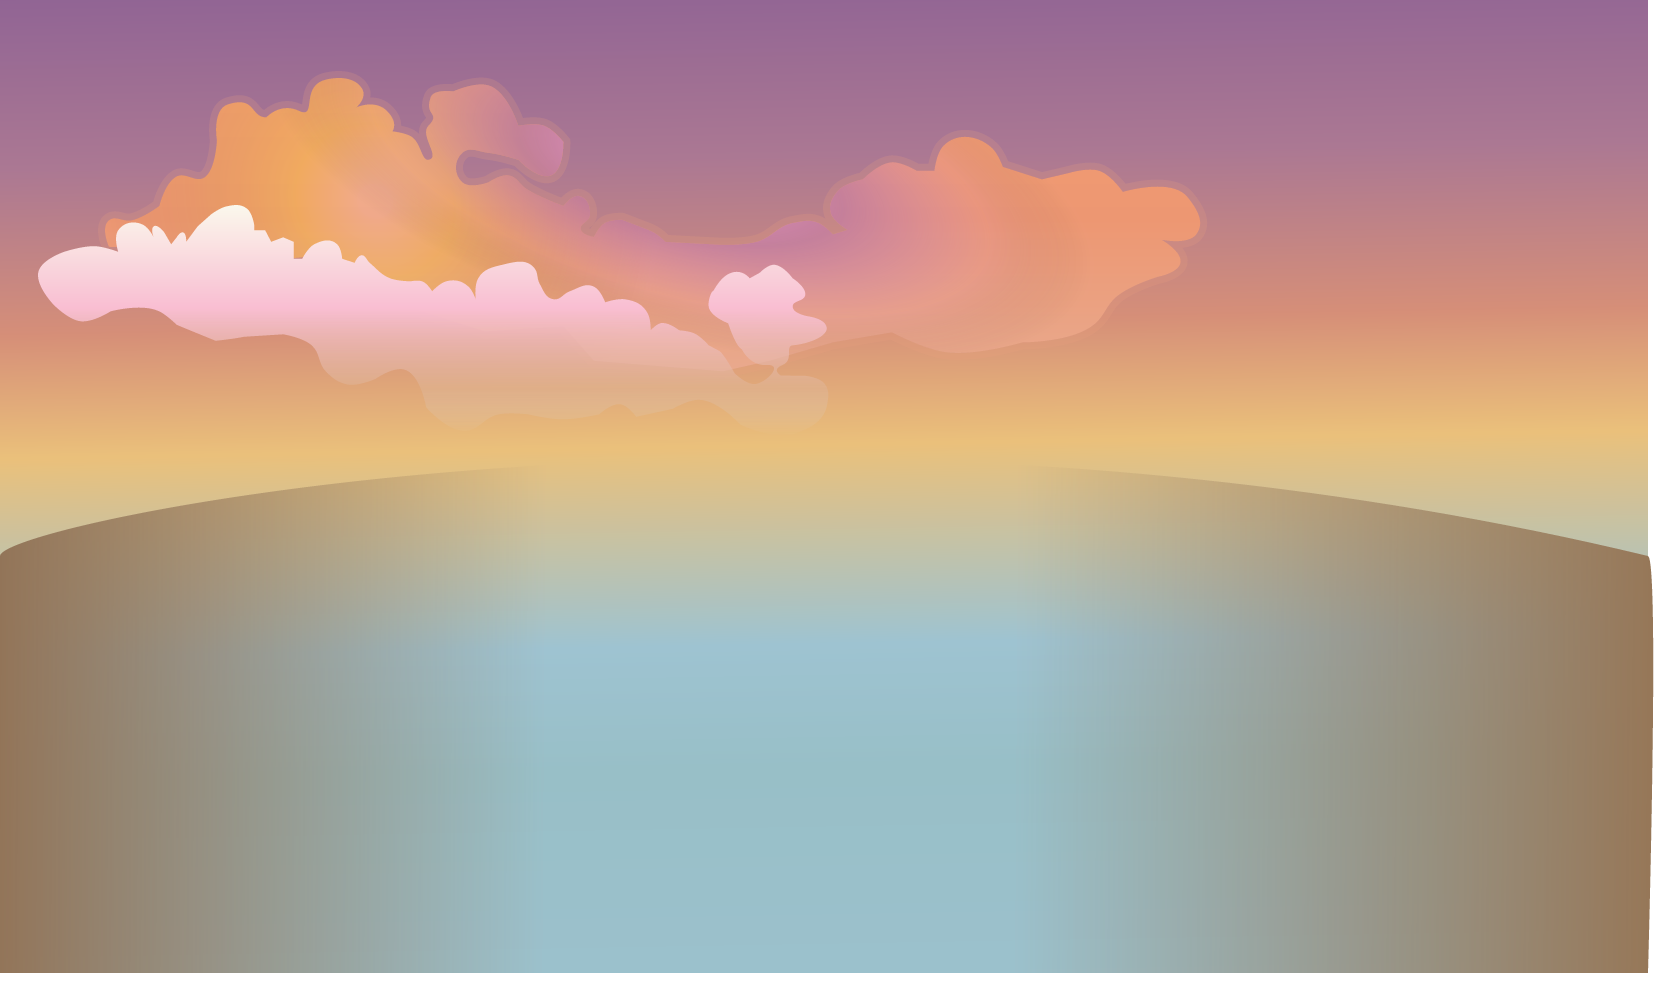
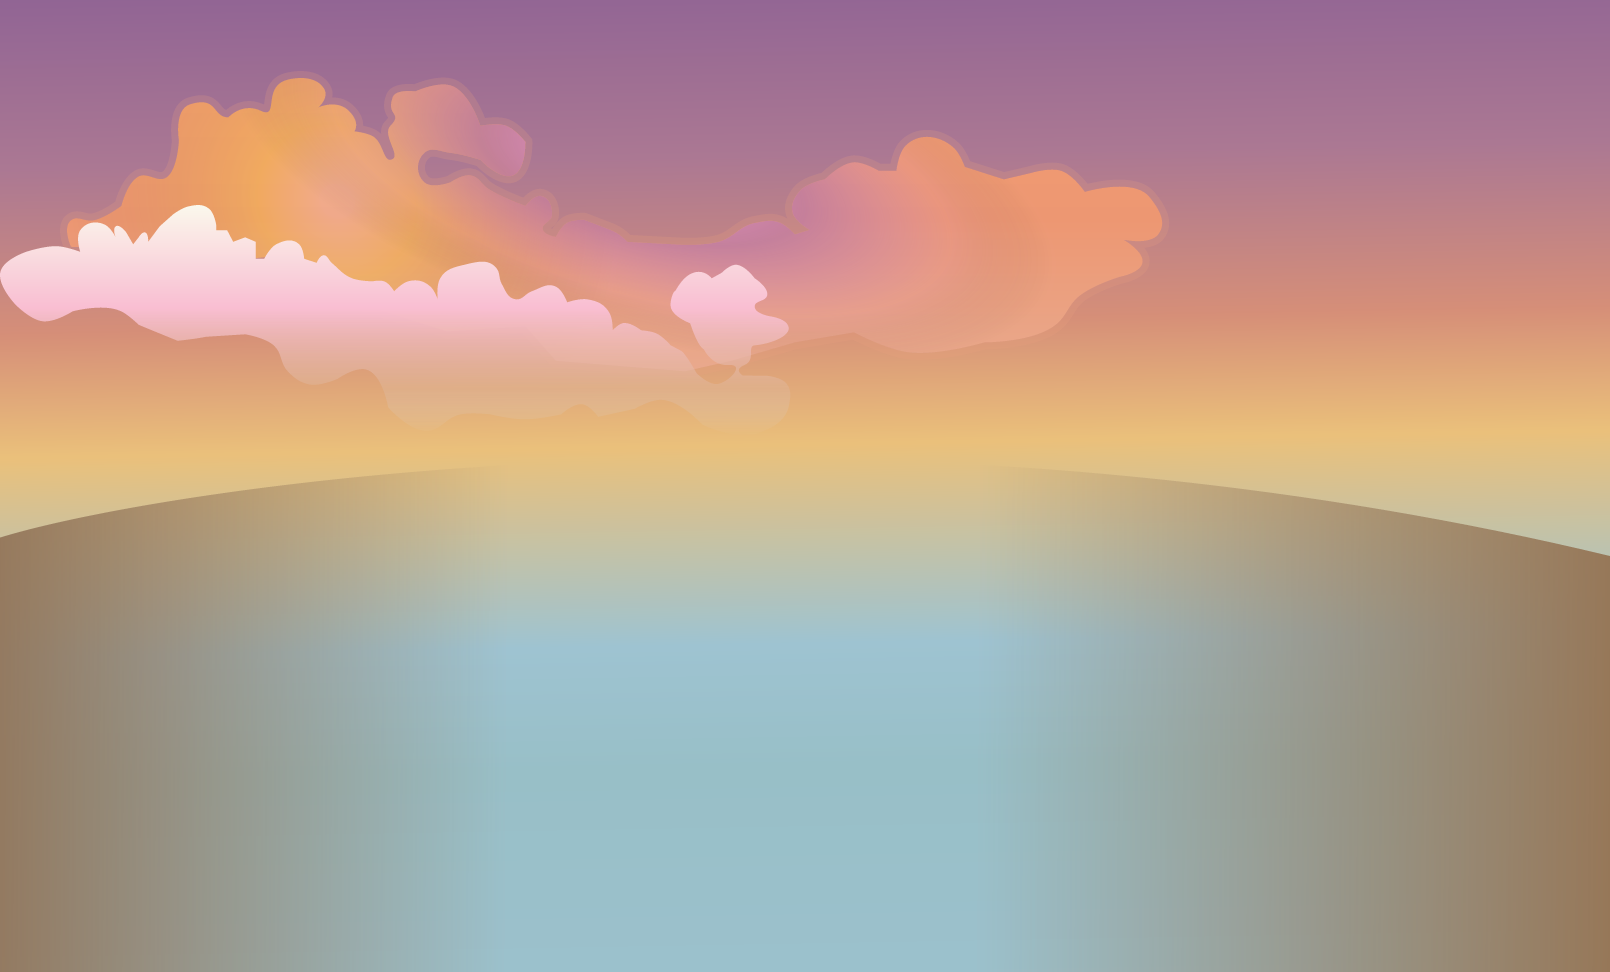
Hero: second mountain layer box, roof, and fill-fit backdrop panels
- Backdrop and side-wall panels use fitMode 'fill' so they meet at the corners
- Enable the layer-02 box (backdrop + left/right walls, 0.9 scale)
- Add a camera-following roof mirrored from the ground floor
- Crop transparent right/bottom edges from layer-01.png (fixes corner seam)

diff --git a/src/docs/hero/hero_parallax.ts b/src/docs/hero/hero_parallax.ts
@@ -334,6 +334,7 @@ export async function heroParallax(
     world.addPanel({
         id: 'mountain-backdrop-01',
         type: ELEMENT_TYPES.PANEL,
+        fitMode: 'fill',
         width: mountainBackdropWidth,
         height: mountainBackdropHeight,
         position: { x: 0, y: 0, z: mountainBackdropDistance },
@@ -342,17 +343,18 @@ export async function heroParallax(
             { type: 'follow', settings: { follow: 'CAMERA' } },
         ],
     });
-    // world.addPanel({
-    //     id: 'mountain-backdrop-02',
-    //     type: ELEMENT_TYPES.PANEL,
-    //     width: mountainBackdropWidth * 0.9,
-    //     height: mountainBackdropHeight * 0.9,
-    //     position: { x: 0, y: 0, z: mountainBackdropDistance * 0.9 },
-    //     texture: { path: appAssetPath('img/hero/layer-02.png'), width: mountainWidth, height: mountainHeight },
-    //     effects: [
-    //         { type: 'follow', settings: { follow: 'CAMERA' } },
-    //     ],
-    // });
+    world.addPanel({
+        id: 'mountain-backdrop-02',
+        type: ELEMENT_TYPES.PANEL,
+        fitMode: 'fill',
+        width: mountainBackdropWidth * 0.9,
+        height: mountainBackdropHeight * 0.9,
+        position: { x: 0, y: 0, z: mountainBackdropDistance * 0.9 },
+        texture: { path: appAssetPath('img/hero/layer-02.png'), width: mountainWidth , height: mountainHeight },
+        effects: [
+            { type: 'follow', settings: { follow: 'CAMERA' } },
+        ],
+    });
 
     // Side walls - same mountain artwork, folded 90 degrees off the backdrop's left/right
     // edges so they read as the side faces of a box around the observer. Each is mirrored
@@ -366,6 +368,7 @@ export async function heroParallax(
     world.addPanel({
         id: 'mountain-backdrop-01-left',
         type: ELEMENT_TYPES.PANEL,
+        fitMode: 'fill',
         width: mountainSideDepth,
         height: mountainBackdropHeight,
         position: { x: -mountainBackdropHalfWidth, y: 0, z: mountainSideZ },
@@ -377,29 +380,46 @@ export async function heroParallax(
         ],
     });
 
-    // world.addPanel({
-    //     id: 'mountain-backdrop-02-left',
-    //     type: ELEMENT_TYPES.PANEL,
-    //     width: mountainSideDepth * 0.9,
-    //     height: mountainBackdropHeight * 0.9,
-    //     position: { x: -mountainBackdropHalfWidth  * 0.9, y: 0, z: mountainSideZ  * 0.9 },
-    //     rotate: { pitch: 0, yaw: -Math.PI / 2, roll: 0 },
-    //     mirrorTextureHorizontal: false,
-    //     texture: { path: appAssetPath('img/hero/layer-02.png'), width: mountainWidth  * 0.9, height: mountainHeight  * 0.9 },
-    //     effects: [
-    //         { type: 'follow', settings: { follow: 'CAMERA' } },
-    //     ],
-    // });
+    world.addPanel({
+        id: 'mountain-backdrop-02-left',
+        type: ELEMENT_TYPES.PANEL,
+        fitMode: 'fill',
+        width: mountainSideDepth * 0.9,
+        height: mountainBackdropHeight * 0.9,
+        position: { x: -mountainBackdropHalfWidth * 0.9, y: 0, z: mountainSideZ  * 0.9 },
+        rotate: { pitch: 0, yaw: -Math.PI / 2, roll: 0 },
+        mirrorTextureHorizontal: false,
+        texture: { path: appAssetPath('img/hero/layer-02.png'), width: mountainWidth, height: mountainHeight },
+        effects: [
+            { type: 'follow', settings: { follow: 'CAMERA' } },
+        ],
+    });
 
     world.addPanel({
-        id: 'mountain-backdrop-right',
+        id: 'mountain-backdrop-01-right',
         type: ELEMENT_TYPES.PANEL,
+        fitMode: 'fill',
         width: mountainSideDepth,
         height: mountainBackdropHeight,
         position: { x: mountainBackdropHalfWidth, y: 0, z: mountainSideZ },
         rotate: { pitch: 0, yaw: Math.PI / 2, roll: 0 },
         mirrorTextureHorizontal: false,
         texture: { path: appAssetPath('img/hero/layer-01.png'), width: mountainWidth, height: mountainHeight },
+        effects: [
+            { type: 'follow', settings: { follow: 'CAMERA' } },
+        ],
+    });
+
+    world.addPanel({
+        id: 'mountain-backdrop-02-right',
+        type: ELEMENT_TYPES.PANEL,
+        fitMode: 'fill',
+        width: mountainSideDepth * 0.9,
+        height: mountainBackdropHeight * 0.9,
+        position: { x: mountainBackdropHalfWidth * 0.9, y: 0, z: mountainSideZ * 0.9 },
+        rotate: { pitch: 0, yaw: Math.PI / 2, roll: 0 },
+        mirrorTextureHorizontal: false,
+        texture: { path: appAssetPath('img/hero/layer-02.png'), width: mountainWidth, height: mountainHeight },
         effects: [
             { type: 'follow', settings: { follow: 'CAMERA' } },
         ],
@@ -441,6 +461,21 @@ export async function heroParallax(
         position: { x: 0, y: floorDrop, z: floorForward },
         // fillColor: { red: 55, green: 58, blue: 68 },
         fillColor: COLORS.cyan,
+        effects: [
+            { type: 'follow', settings: { follow: 'CAMERA', followRotation: true } }
+        ],
+    });
+
+    // Roof - the floor mirrored above the observer (negative y is up in p5), textured with
+    // the backdrop's mountain artwork instead of a flat color. Same camera-relative
+    // `followRotation` follow, so it always reads as "overhead and ahead".
+    world.addFloor({
+        id: 'roof',
+        type: ELEMENT_TYPES.FLOOR,
+        width: 6000,
+        depth: 6000,
+        position: { x: 0, y: -floorDrop - 850, z: floorForward },
+        fillColor: {red: 100 * 1.5, green: 68 * 1.5  , blue: 97 * 1.5 },
         effects: [
             { type: 'follow', settings: { follow: 'CAMERA', followRotation: true } }
         ],
